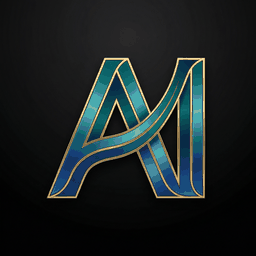
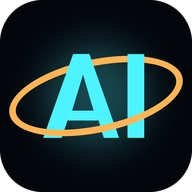
feat: 서비스에 MVP 개발 추가, 파비콘을 선명한 AI·궤도 마크로, 대표 주소를 www로
- 파비콘: 크기마다 따로 그린 favicon.ico(16·32·48), icon 192, apple-icon 180(make_icon.py)
- sideonai.com이 www로 넘어가므로 canonical·사이트맵·구조화 데이터 주소를 www로 맞춤

Claude-Session: https://claude.ai/code/session_01LVgARZoaRvJkX46vSPug7L

diff --git a/src/data/site.ts b/src/data/site.ts
@@ -1,13 +1,13 @@
 // 홈에 나오는 문구와 링크의 단일 출처. 메타데이터·구조화 데이터도 여기서 가져간다.
 import { courses, orgCount, totalSessions } from "./courses";
 
-export const SITE_URL = "https://sideonai.com";
+export const SITE_URL = "https://www.sideonai.com"; // sideonai.com은 www로 넘어간다(Vercel 도메인 설정). 대표 주소는 실제 도착 주소와 같아야 한다
 export const BRAND = "SideOnAI";
 export const BRAND_KO = "사이드온에이아이";
 export const LEAD_CLIENTS = "EBS, GS리테일, KB국민카드, NC";
 
 export const SLOGAN = "도메인에 AI를 더하다";
-export const TAGLINE = "AX 컨설팅 · AI 교육 · 업무 자동화 · 바이브 코딩";
+export const TAGLINE = "AX 컨설팅 · AI 교육 · 업무 자동화 · 바이브 코딩 · MVP 개발";
 export const DOMAIN_LINE = "어떤 도메인에도 AI를 더합니다";
 
 // 히어로 도메인 장면의 이름표. 순서는 graph.ts의 DOMAIN_DIRS와 같다 (오른쪽 3개, 왼쪽 3개).
@@ -44,6 +44,13 @@ export const SERVICES = [
     title: "바이브 코딩",
     body: "코딩 몰라도 내 업무 도구를 직접 만듭니다.",
     tags: ["Claude Code", "Codex", "Gemini", "Cursor"],
+  },
+  {
+    // 바이브 코딩은 직접 만드는 법을 배우는 교육, 이건 대신 만들어 드리는 개발
+    key: "build",
+    title: "MVP 개발",
+    body: "아이디어를 돌아가는 서비스와 업무 도구로 만들어 드립니다.",
+    tags: ["MVP 제작", "서비스 개발", "사내 업무 도구", "AI 기능 연동"],
   },
 ] as const;
 

diff --git a/src/components/sections/Services.tsx b/src/components/sections/Services.tsx
@@ -2,14 +2,15 @@ import { SERVICES } from "@/data/site";
 import SectionHead from "./SectionHead";
 import SectionShell from "./SectionShell";
 
-// 서비스 넷을 크기가 다른 판(벤토)으로. AX 컨설팅과 바이브 코딩은 넓게, 나머지 둘은 좁게 엇갈려 놓는다.
+// 서비스 다섯을 크기가 다른 판(벤토)으로. 윗줄은 넓은 AX 컨설팅 + 좁은 AI 교육, 아랫줄은 셋을 나란히.
 // 밤하늘 위의 유리판처럼: 어두운 면에 가는 선, 모서리에서 청록·호박 빛이 번진다.
-const SPAN = ["lg:col-span-2", "lg:col-span-1", "lg:col-span-1", "lg:col-span-2"];
+const SPAN = ["lg:col-span-2", "lg:col-span-1", "lg:col-span-1", "lg:col-span-1", "lg:col-span-1"];
 const GLOW = [
   "bg-[radial-gradient(circle_at_88%_12%,rgba(77,243,255,0.30),transparent_50%)]",
   "bg-[radial-gradient(circle_at_90%_10%,rgba(255,180,84,0.22),transparent_55%)]",
   "bg-[radial-gradient(circle_at_10%_90%,rgba(77,243,255,0.18),transparent_55%)]",
   "bg-[radial-gradient(circle_at_12%_15%,rgba(255,180,84,0.20),transparent_50%)]",
+  "bg-[radial-gradient(circle_at_85%_85%,rgba(77,243,255,0.24),transparent_55%)]",
 ];
 
 export default function Services() {

diff --git a/src/app/layout.tsx b/src/app/layout.tsx
@@ -29,7 +29,7 @@ const dohyeon = localFont({
 });
 
 const SITE_TITLE = `${BRAND} | 생성형 AI 기업 교육 · AX 컨설팅 · 바이브 코딩`;
-const SITE_DESC = `${LEAD_CLIENTS} 등 ${orgCount}곳에서 ${totalSessions}회 강의한 AI 교육·AX 컨설팅 회사. 생성형 AI 실무, 업무 자동화, 바이브 코딩 교육.`;
+const SITE_DESC = `${LEAD_CLIENTS} 등 ${orgCount}곳에서 ${totalSessions}회 강의한 AI 교육·AX 컨설팅 회사. 생성형 AI 실무, 업무 자동화, 바이브 코딩 교육과 MVP 개발.`;
 
 export const metadata: Metadata = {
   metadataBase: new URL(SITE_URL),
@@ -52,6 +52,8 @@ export const metadata: Metadata = {
     "AI 업무 자동화",
     "AI 에이전트 교육",
     "공공기관 AI 교육",
+    "MVP 개발",
+    "AI 서비스 개발",
   ],
   authors: [{ name: BRAND, url: SITE_URL }],
   creator: BRAND,

diff --git a/src/components/StructuredData.tsx b/src/components/StructuredData.tsx
@@ -23,6 +23,7 @@ const SERVICE_NAMES: Record<(typeof SERVICES)[number]["key"], string> = {
   education: "생성형 AI 실무 교육",
   automation: "AI 업무 자동화",
   vibe: "바이브 코딩 교육",
+  build: "MVP·서비스 개발",
 };
 
 export function JsonLd({ data }: { data: object }) {

diff --git a/list/2026-10/make_icon.py b/list/2026-10/make_icon.py
@@ -1,0 +1,53 @@
+# 파비콘: 밤하늘 바탕의 둥근 사각형에 한나체 "AI"(청록)와 로고 아이덴트의 호박색 궤도.
+# 작은 크기에서도 읽히게 크기마다 따로 그린다. 궤도가 있어야 어도비 일러스트레이터 아이콘과 헷갈리지 않는다.
+import io, sys
+from fontTools.ttLib import TTFont
+from PIL import Image, ImageDraw, ImageFont, ImageFilter
+
+REPO = sys.argv[1]
+f = TTFont(f"{REPO}/src/app/fonts/baemin/BMHANNAPro.woff2"); f.flavor = None
+buf = io.BytesIO(); f.save(buf); buf.seek(0)
+FONT = buf.getvalue()
+
+def draw(size, glow=True):
+    S = size * 8  # 크게 그린 뒤 줄여서 가장자리를 매끄럽게
+    im = Image.new("RGBA", (S, S), (0, 0, 0, 0))
+    d = ImageDraw.Draw(im)
+    r = int(S * 0.22)
+    d.rounded_rectangle([0, 0, S - 1, S - 1], r, fill=(3, 6, 11, 255))
+    if glow:
+        g = Image.new("RGBA", (S, S), (0, 0, 0, 0))
+        ImageDraw.Draw(g).ellipse([S * 0.15, S * 0.15, S * 0.85, S * 0.85], fill=(77, 243, 255, 70))
+        g = g.filter(ImageFilter.GaussianBlur(S * 0.12))
+        mask = Image.new("L", (S, S), 0); ImageDraw.Draw(mask).rounded_rectangle([0, 0, S - 1, S - 1], r, fill=255)
+        im.paste(Image.alpha_composite(im, g), (0, 0), mask)
+        d = ImageDraw.Draw(im)
+    font = ImageFont.truetype(io.BytesIO(FONT), int(S * (0.7 if size <= 32 else 0.6)))
+    x0, y0, x1, y1 = d.textbbox((0, 0), "AI", font=font)
+    tx, ty = (S - (x1 - x0)) / 2 - x0, (S - (y1 - y0)) / 2 - y0
+    if size >= 48:
+        # 기울어진 궤도(아이덴트의 ellipse rotate(-12)와 같은 모양). 행성 고리처럼 위쪽은 글자 뒤, 아래쪽은 글자 앞으로 지나간다
+        orb = Image.new("RGBA", (S, S), (0, 0, 0, 0))
+        ImageDraw.Draw(orb).ellipse([S * 0.04, S * 0.31, S * 0.96, S * 0.69], outline=(255, 180, 84, 255), width=int(S * 0.035))
+        orb = orb.rotate(12, resample=Image.BICUBIC)
+        im.alpha_composite(orb)
+        d = ImageDraw.Draw(im)
+        d.text((tx, ty), "AI", font=font, fill=(77, 243, 255, 255))
+        front = Image.new("L", (S, S), 0)
+        ImageDraw.Draw(front).polygon([(0, S * 0.62), (S, S * 0.45), (S, S), (0, S)], fill=255)  # 궤도 기울기를 따라 아래쪽 절반
+        im.paste(orb, (0, 0), Image.composite(orb.getchannel("A"), Image.new("L", (S, S), 0), front))
+    else:
+        # 탭 크기에서는 궤도 대신 궤도를 도는 호박색 점 하나
+        d.text((tx, ty), "AI", font=font, fill=(77, 243, 255, 255))
+        rr = S * 0.09
+        cx, cy = S * 0.84, S * 0.8
+        d.ellipse([cx - rr, cy - rr, cx + rr, cy + rr], fill=(255, 180, 84, 255))
+    return im.resize((size, size), Image.LANCZOS)
+
+out = sys.argv[2]
+ico = [draw(s, glow=s > 32) for s in (16, 32, 48)]
+ico[2].save(f"{out}/favicon.ico", sizes=[(16, 16), (32, 32), (48, 48)], append_images=ico[:2])
+draw(192).save(f"{out}/icon.png", optimize=True)
+apple = draw(180); bg = Image.new("RGBA", apple.size, (3, 6, 11, 255)); bg.alpha_composite(apple)
+bg.convert("RGB").save(f"{out}/apple-icon.png", optimize=True)  # 아이폰은 투명 모서리를 검게 채우므로 꽉 채운 사각형
+draw(512).save(f"{out}/preview-512.png")
